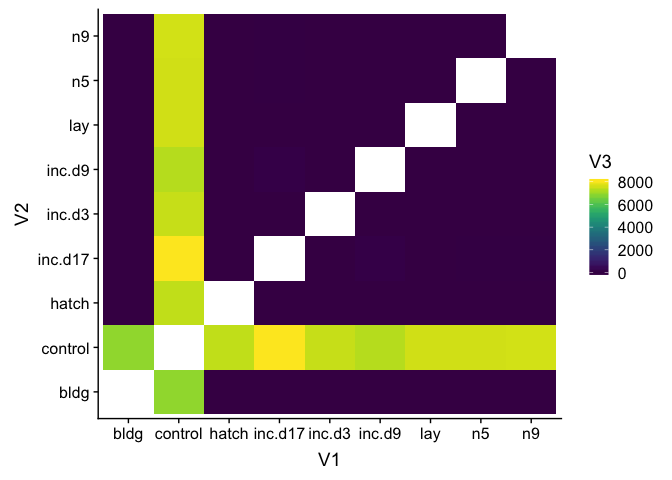
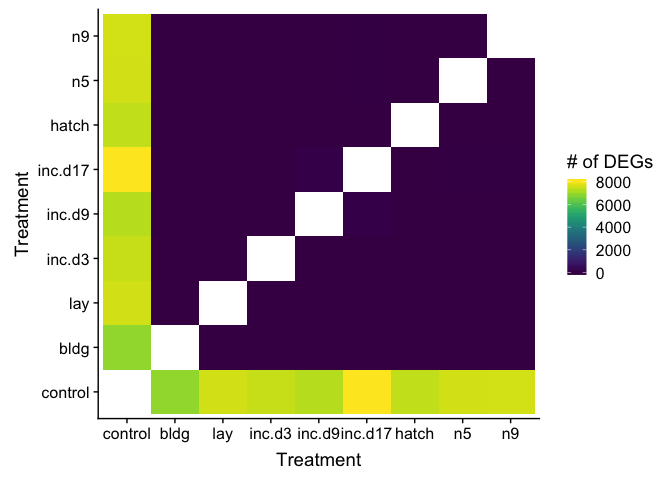
better gridplot

diff --git a/analysis/02_DESeq2_hyp.md b/analysis/02_DESeq2_hyp.md
@@ -461,9 +461,18 @@ NA
 </tbody>
 </table>
 
+    dat$V1 <- factor(dat$V1, levels = 
+                                  c("control", "bldg", "lay", "inc.d3", "inc.d9", 
+                                    "inc.d17", "hatch", "n5", "n9"))
+    dat$V2 <- factor(dat$V2, levels = 
+                                  c("control", "bldg", "lay", "inc.d3", "inc.d9", 
+                                    "inc.d17", "hatch", "n5", "n9"))
+
     ggplot(dat, aes(V1, V2)) +
       geom_tile(aes(fill = V3)) +
-      scale_fill_viridis(na.value="#FFFFFF00")
+      scale_fill_viridis(na.value="#FFFFFF00") + 
+      xlab("Treatment") + ylab("Treatment") +
+      labs(fill = "# of DEGs")
 
 ![](../figures/hyp/restable-1.png)
 
@@ -1086,9 +1095,18 @@ NA
 </tbody>
 </table>
 
+    dat$V1 <- factor(dat$V1, levels = 
+                                  c("control", "bldg", "lay", "inc.d3", "inc.d9", 
+                                    "inc.d17", "hatch", "n5", "n9"))
+    dat$V2 <- factor(dat$V2, levels = 
+                                  c("control", "bldg", "lay", "inc.d3", "inc.d9", 
+                                    "inc.d17", "hatch", "n5", "n9"))
+
     ggplot(dat, aes(V1, V2)) +
       geom_tile(aes(fill = V3)) +
-      scale_fill_viridis(na.value="#FFFFFF00") 
+      scale_fill_viridis(na.value="#FFFFFF00") + 
+      xlab("Treatment") + ylab("Treatment") +
+      labs(fill = "# of DEGs")
 
 ![](../figures/hyp/restableMale-1.png)
 
